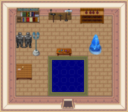
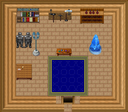
fix(tarnow): align workshop entrance and use wooden interior walls

diff --git a/tests/games/stendhal/server/maps/tarnow/enchanter/EnchanterWorkshopTest.java b/tests/games/stendhal/server/maps/tarnow/enchanter/EnchanterWorkshopTest.java
@@ -32,14 +32,17 @@ public class EnchanterWorkshopTest {
 		}
 		SingletonRepository.getNPCList().remove(EnchanterNPC.NAME);
 		new EnchanterNPC().configureZone(room, Collections.emptyMap());
-		final Player player = PlayerTestHelper.createPlayer("workshop_visitor"); city.add(player); player.setPosition(57, 89);
+		final Player player = PlayerTestHelper.createPlayer("workshop_visitor"); city.add(player); player.setPosition(55, 87);
 		final Portal entrance = city.getPortal("enchanter_workshop_entrance");
 		final Portal exit = room.getPortal("enchanter_workshop_exit");
 		assertNotNull(entrance); assertNotNull(exit);
+		assertEquals(56, entrance.getX()); assertEquals(87, entrance.getY());
+		assertEquals(3, entrance.getOffset());
 		assertTrue(entrance.onUsed(player)); assertSame(room, player.getZone());
 		assertEquals(8, player.getX()); assertEquals(11, player.getY());
 		assertTrue(exit.onUsed(player)); assertSame(city, player.getZone());
-		assertEquals(57, player.getX()); assertEquals(89, player.getY());
+		assertEquals(55, player.getX()); assertEquals(87, player.getY());
+		assertEquals(games.stendhal.common.Direction.LEFT, player.getDirection());
 		SingletonRepository.getNPCList().remove(EnchanterNPC.NAME);
 	}
 
